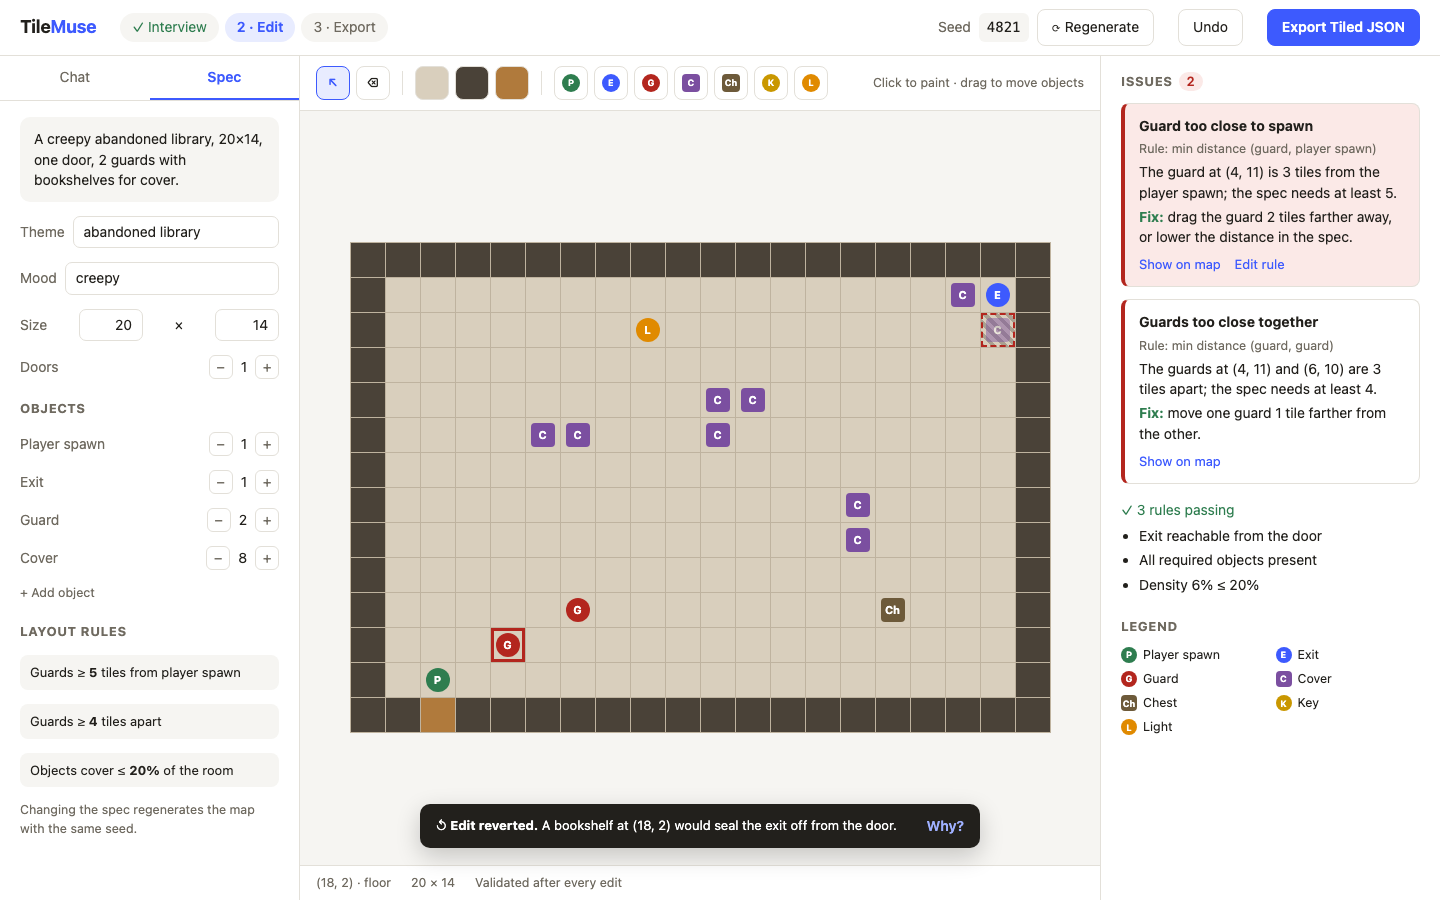
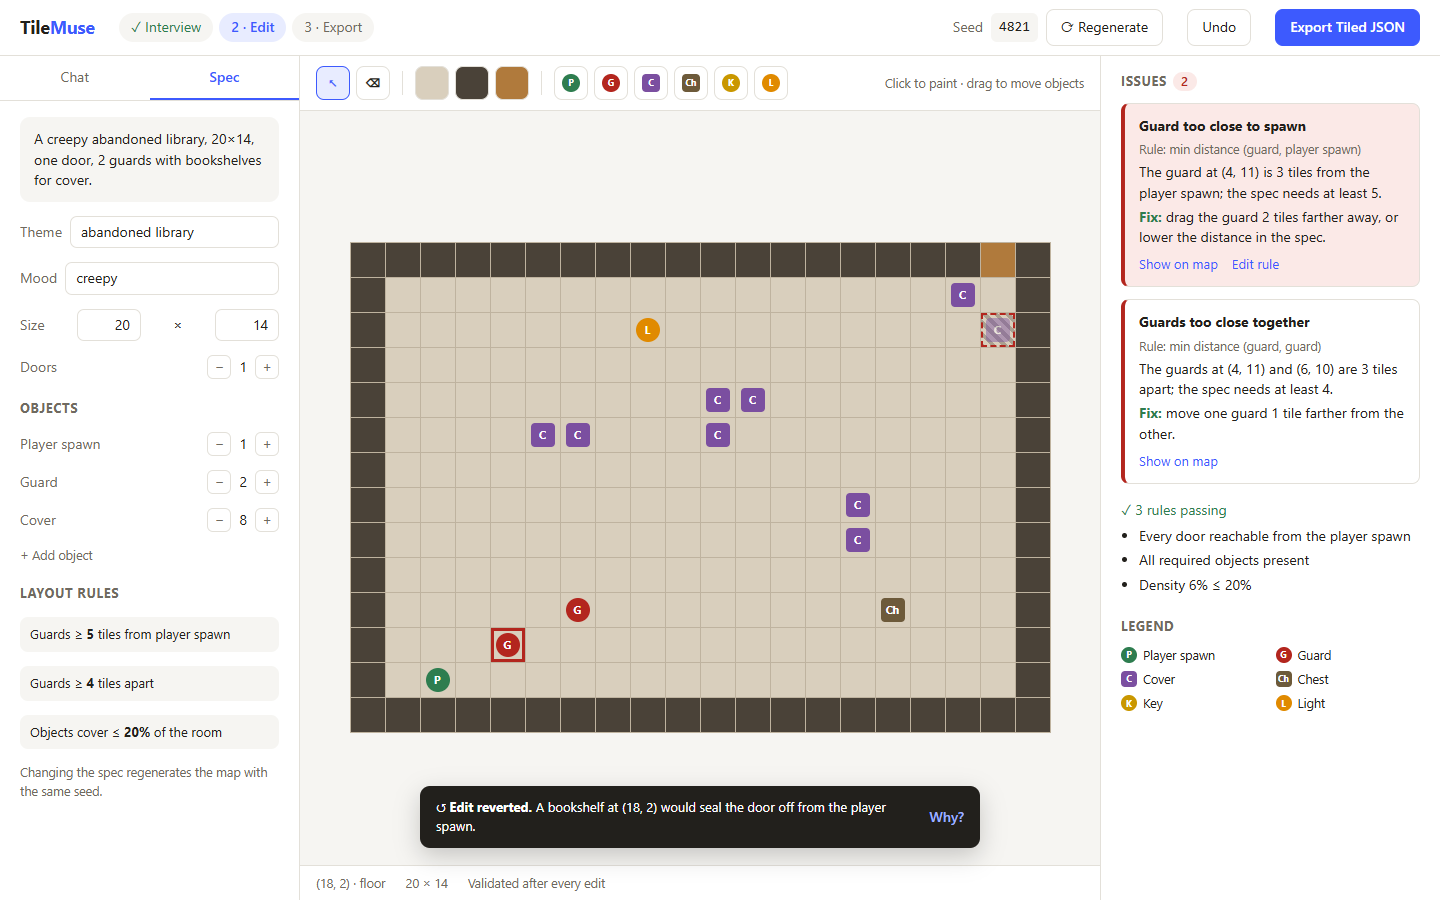
Fix: remove exit as an object kind (#31) (#33)
* fix: remove exit as an object kind

Doors double as exits, so the spec no longer has a separate exit object.

* docs: make the door the way out in the UI draft

* fix: tell the interview that doors are the way out

Also keep the spec cap test at its limit now that there are fewer kinds.

---------

diff --git a/docs/ui/mockup.html b/docs/ui/mockup.html
@@ -111,7 +111,7 @@
                  outline: 2px dashed var(--warn); outline-offset: -2px; }
   .o { width: 24px; height: 24px; border-radius: 50%; color: #fff; font-size: 11px; font-weight: 700;
        display: flex; align-items: center; justify-content: center; }
-  .o.P { background: #2e7d4f; } .o.E { background: #3d5afe; } .o.G { background: #b3261e; }
+  .o.P { background: #2e7d4f; } .o.G { background: #b3261e; }
   .o.C { background: #6d5a3a; border-radius: 4px; } .o.K { background: #c99700; } .o.L { background: #e08a00; }
   .o.H { background: #7b4fa0; border-radius: 4px; }
   .statusbar { display: flex; gap: 20px; padding: 8px 16px; background: var(--panel);
@@ -172,7 +172,7 @@
     <aside class="panel spec">
       <div class="pad">
         <div class="row"><h2>Design spec</h2><span class="note">Edit JSON</span></div>
-        <div class="summary">A <b>creepy abandoned library</b>, 20×14 tiles, with one door. The player starts by the door and must reach the exit while staying away from guards.</div>
+        <div class="summary">A <b>creepy abandoned library</b>, 20×14 tiles, with one door. The player starts at the spawn and must reach the door while staying away from guards.</div>
         <div class="progress"><i></i></div>
         <div class="note">5 of 7 fields ready · the interview ends when all are specific</div>
       </div>
@@ -182,7 +182,7 @@
           <li><span class="k">Mood</span><span class="v">creepy</span><span class="tag ok">ready</span></li>
           <li><span class="k">Size</span><span class="v">20 × 14</span><span class="tag ok">ready</span></li>
           <li><span class="k">Doors</span><span class="v">1</span><span class="tag ok">ready</span></li>
-          <li><span class="k">Objects</span><span class="v">player spawn ×1, exit ×1, guard ×?</span><span class="tag ask">asking</span></li>
+          <li><span class="k">Objects</span><span class="v">player spawn ×1, guard ×?</span><span class="tag ask">asking</span></li>
           <li><span class="k">Cover</span><span class="v">bookshelves (count from guards)</span><span class="tag todo">next</span></li>
           <li><span class="k">Layout rules</span><span class="v">guards ≥ 5 tiles from spawn, ≥ 4 apart</span><span class="tag ok">ready</span></li>
         </ul>
@@ -217,7 +217,6 @@
         <div class="row"><label>Doors</label><div class="stepper"><b>−</b>1<b>+</b></div></div>
         <h2 style="margin-top:6px">Objects</h2>
         <div class="row"><label>Player spawn</label><div class="stepper"><b>−</b>1<b>+</b></div></div>
-        <div class="row"><label>Exit</label><div class="stepper"><b>−</b>1<b>+</b></div></div>
         <div class="row"><label>Guard</label><div class="stepper"><b>−</b>2<b>+</b></div></div>
         <div class="row"><label>Cover</label><div class="stepper"><b>−</b>8<b>+</b></div></div>
         <div class="note">+ Add object</div>
@@ -236,7 +235,6 @@
         <span class="tool" style="background:var(--wall)"></span>
         <span class="tool" style="background:var(--door)"></span><span class="sep"></span>
         <span class="tool"><span class="o P" style="width:18px;height:18px;font-size:9px">P</span></span>
-        <span class="tool"><span class="o E" style="width:18px;height:18px;font-size:9px">E</span></span>
         <span class="tool"><span class="o G" style="width:18px;height:18px;font-size:9px">G</span></span>
         <span class="tool"><span class="o H" style="width:18px;height:18px;font-size:9px">C</span></span>
         <span class="tool"><span class="o C" style="width:18px;height:18px;font-size:9px">Ch</span></span>
@@ -247,7 +245,7 @@
       </div>
       <div class="canvas"><div class="map" id="map"></div></div>
       <div class="toast">
-        <div class="grow">↺ <b>Edit reverted.</b> A bookshelf at (18, 2) would seal the exit off from the door.</div>
+        <div class="grow">↺ <b>Edit reverted.</b> A bookshelf at (18, 2) would seal the door off from the player spawn.</div>
         <a>Why?</a>
       </div>
       <div class="statusbar"><span>(18, 2) · floor</span><span>20 × 14</span><span>Validated after every edit</span></div>
@@ -272,17 +270,16 @@
         </div>
         <div class="passing">✓ 3 rules passing
           <ul style="margin:6px 0 0;padding-left:18px">
-            <li>Exit reachable from the door</li>
+            <li>Every door reachable from the player spawn</li>
             <li>All required objects present</li>
             <li>Density 6% ≤ 20%</li>
           </ul>
         </div>
         <h2 style="margin-top:22px">Legend</h2>
         <div class="legend">
-          <span><span class="o P">P</span>Player spawn</span><span><span class="o E">E</span>Exit</span>
-          <span><span class="o G">G</span>Guard</span><span><span class="o H">C</span>Cover</span>
-          <span><span class="o C">Ch</span>Chest</span><span><span class="o K">K</span>Key</span>
-          <span><span class="o L">L</span>Light</span>
+          <span><span class="o P">P</span>Player spawn</span><span><span class="o G">G</span>Guard</span>
+          <span><span class="o H">C</span>Cover</span><span><span class="o C">Ch</span>Chest</span>
+          <span><span class="o K">K</span>Key</span><span><span class="o L">L</span>Light</span>
         </div>
       </div>
     </aside>
@@ -292,7 +289,7 @@
 <script>
   // Builds the static 20x14 sample map; mockup only.
   const W = 20, H = 14;
-  const objects = { "2,12": "P", "18,1": "E", "4,11": "G", "6,10": "G",
+  const objects = { "2,12": "P", "4,11": "G", "6,10": "G",
     "17,1": "H", "10,4": "H", "11,4": "H", "10,5": "H", "14,7": "H", "14,8": "H", "5,5": "H", "6,5": "H",
     "8,2": "L", "15,10": "C" };
   const map = document.getElementById("map");
@@ -300,12 +297,12 @@
     const t = document.createElement("div");
     const edge = x === 0 || y === 0 || x === W - 1 || y === H - 1;
     t.className = "t" + (edge ? " w" : "");
-    if (x === 2 && y === 13) t.className = "t d";
+    if (x === 18 && y === 0) t.className = "t d";
     if (x === 4 && y === 11) t.classList.add("bad");
     const kind = objects[x + "," + y];
     const label = { H: "C", C: "Ch" }[kind] || kind;
     if (kind) t.innerHTML = '<div class="o ' + kind + '">' + label + "</div>";
-    // The reverted edit: a bookshelf that would seal the exit in.
+    // The reverted edit: a bookshelf that would seal the door in.
     if (x === 18 && y === 2) {
       t.classList.add("ghostwall");
       t.innerHTML = '<div class="o H" style="opacity:.45">C</div>';

diff --git a/frontend/src/api/schema.d.ts b/frontend/src/api/schema.d.ts
@@ -290,7 +290,7 @@ export interface components {
          * @description The fixed object set the generator can place.
          * @enum {string}
          */
-        ObjectKind: "player_spawn" | "exit" | "chest" | "guard" | "cover" | "key" | "light";
+        ObjectKind: "player_spawn" | "chest" | "guard" | "cover" | "key" | "light";
         /** ObjectRequirement */
         ObjectRequirement: {
             kind: components["schemas"]["ObjectKind"];

diff --git a/backend/tests/test_spec.py b/backend/tests/test_spec.py
@@ -16,7 +16,6 @@ FULL_SPEC = {
         {"kind": "player_spawn", "count": 1},
         {"kind": "guard", "count": 2},
         {"kind": "cover", "count": 6},
-        {"kind": "exit", "count": 1},
     ],
     "rules": [
         {"type": "max_density", "max": 0.2},
@@ -171,7 +170,7 @@ def test_complete_draft_becomes_spec():
 
 
 def test_complete_draft_checks_consistency():
-    # Each field is valid alone, but 10 objects don't fit in a 4x4 room's 4 interior tiles.
+    # Each field is valid alone, but 9 objects don't fit in a 4x4 room's 4 interior tiles.
     draft = SpecDraft.model_validate({**FULL_SPEC, "width": 4, "height": 4, "rules": []})
     with pytest.raises(ValidationError, match="do not fit"):
         draft.to_spec()
@@ -179,8 +178,9 @@ def test_complete_draft_checks_consistency():
 
 def test_object_and_rule_lists_are_capped(make_spec):
     # Bounds the draft that goes into the interview's prompt, which isn't checked for repeats.
-    objects = [{"kind": "chest", "count": 1}] * 8
-    rules = [{"type": "max_density", "max": 0.5}] * 30
+    kinds = len(ObjectKind)
+    objects = [{"kind": "chest", "count": 1}] * (kinds + 1)
+    rules = [{"type": "max_density", "max": 0.5}] * (2 + kinds * (kinds + 1) // 2)
     for data in ({"objects": objects}, {"rules": rules}):
         with pytest.raises(ValidationError, match="at most"):
             SpecDraft.model_validate(data)

diff --git a/backend/app/interview.py b/backend/app/interview.py
@@ -27,14 +27,14 @@ from app.spec import (
 logger = logging.getLogger(__name__)
 
 # The JSON schema carries field names and enums; this states the checks in spec.py. The
-# player_spawn/exit line is a design requirement that nothing checks yet.
+# player_spawn line is a design requirement that nothing checks yet.
 _SPEC_RULES = """\
 The spec must be consistent:
 - width and height are 4-128 tiles, including the outer walls. Objects go on the \
 (width - 2) * (height - 2) interior tiles.
-- doors is 1-8.
+- doors is 1-8. Doors are the way out, so count any exits the user asks for as doors.
 - objects lists each kind at most once, and the counts must fit in the interior.
-- Include one player_spawn and at least one exit.
+- Include one player_spawn.
 - Every rule needs its type field: "type": "max_density" or "type": "min_distance".
 - rules are optional. At most one max_density: objects / interior tiles <= max. \
 At most one min_distance per pair of kinds: both kinds are in objects, a pair of the same kind \

diff --git a/backend/app/tileset.py b/backend/app/tileset.py
@@ -22,7 +22,7 @@ WallPiece = Literal[
     "top", "bottom", "left", "right", "corner_tl", "corner_tr", "corner_bl", "corner_br"
 ]
 
-# The catalog kind each object's tile must have. Doors double as exits, so `exit` has no tile.
+# The catalog kind each object's tile must have.
 OBJECT_TILE_KINDS: dict[ObjectKind, Kind] = {
     ObjectKind.PLAYER_SPAWN: "character",
     ObjectKind.CHEST: "object",
@@ -96,8 +96,6 @@ class ThemeKit(BaseModel):
     @field_validator("objects")
     @classmethod
     def check_objects(cls, objects: dict[ObjectKind, str]) -> dict[ObjectKind, str]:
-        if ObjectKind.EXIT in objects:
-            raise ValueError("exit has no tile: doors double as exits")
         return _require_all(objects, OBJECT_TILE_KINDS, "object kind")
 
     def slots(self) -> list[tuple[str, Kind]]:

diff --git a/backend/tests/test_tileset.py b/backend/tests/test_tileset.py
@@ -116,18 +116,8 @@ def test_kit_rejects_missing_object_kind():
         ThemeKit(**kit(objects=objects))
 
 
-def test_kit_needs_no_exit_tile():
-    assert ObjectKind.EXIT not in ThemeKit(**kit()).objects
-
-
-def test_kit_rejects_exit_tile():
-    objects = {**kit()["objects"], ObjectKind.EXIT: "object"}
-    with pytest.raises(ValidationError, match="doors double as exits"):
-        ThemeKit(**kit(objects=objects))
-
-
-def test_every_object_kind_but_exit_has_a_tile_kind():
-    assert set(OBJECT_TILE_KINDS) == set(ObjectKind) - {ObjectKind.EXIT}
+def test_every_object_kind_has_a_tile_kind():
+    assert set(OBJECT_TILE_KINDS) == set(ObjectKind)
 
 
 def test_tileset_rejects_unknown_tile_name():

diff --git a/backend/app/spec.py b/backend/app/spec.py
@@ -15,7 +15,6 @@ class ObjectKind(StrEnum):
     """The fixed object set the generator can place."""
 
     PLAYER_SPAWN = "player_spawn"
-    EXIT = "exit"
     CHEST = "chest"
     GUARD = "guard"
     COVER = "cover"

diff --git a/docs/ui.md b/docs/ui.md
@@ -42,11 +42,11 @@ flowchart LR
 - **Left rail.** Tabs for Chat and Spec. The Spec tab edits the same fields as the interview: size, doors, object counts, and layout rules.
 - **Center.** A tool palette (select, erase, floor, wall, door, and one tool per object kind), the map canvas, and a status bar with the hovered tile.
 - **Issues (right).** One card per violation, with the rule, the explanation from the explainer, and a suggested fix. "Show on map" highlights the tile (the red outline on the guard). Passing rules are listed below so the user knows what was checked.
-- **Toast.** An edit that would break a hard rule is reverted immediately and explained. Here, a bookshelf (shown dashed) would have sealed off the exit.
+- **Toast.** An edit that would break a hard rule is reverted immediately and explained. Here, a bookshelf (shown dashed) would have sealed off the door.
 
 ## Design decisions
 
-- **Two kinds of problems, two treatments.** Hard rules (exit reachable from the door, required objects present) make an unplayable map, so a breaking edit is reverted with a toast, as the proposal's "reject invalid changes and revert" asks. Spec rules (`min_distance`, `max_density`) are listed as issues the user can fix or accept, since fixing them may take several moves. Implementation is tracked in #17.
+- **Two kinds of problems, two treatments.** Hard rules (every door reachable from the player spawn, required objects present) make an unplayable map, so a breaking edit is reverted with a toast, as the proposal's "reject invalid changes and revert" asks. Spec rules (`min_distance`, `max_density`) are listed as issues the user can fix or accept, since fixing them may take several moves. Implementation is tracked in #17.
 - **The spec stays visible.** It is a side panel in the interview and a tab in the editor, so it is the single source of truth the user can always see and edit.
 - **Choices over open questions.** Every interview question offers 2-4 concrete answers, for users without design training.
 - **Explanations come from the explainer.** Issue text and fixes come from its templates, so the UI never invents violations.
